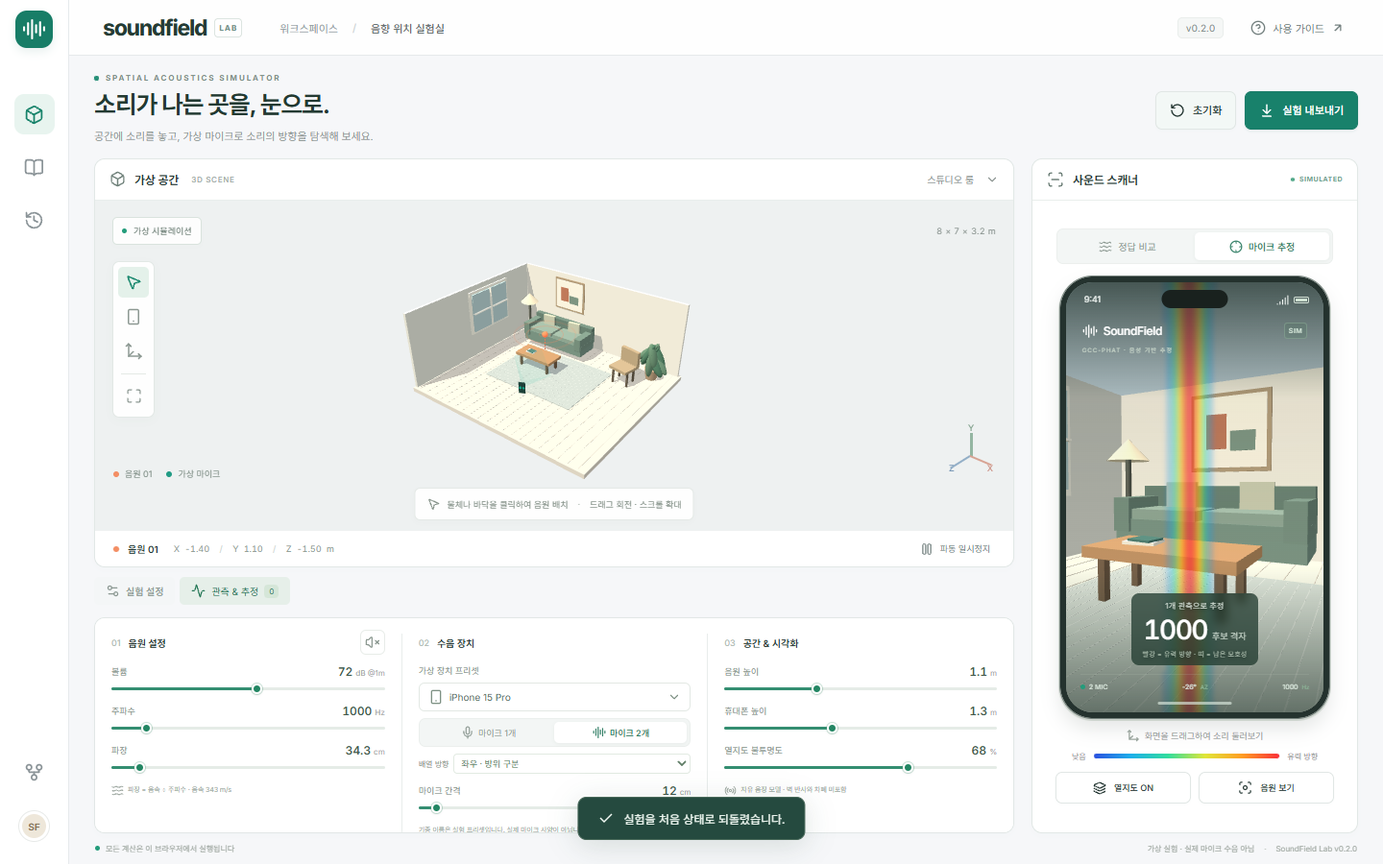
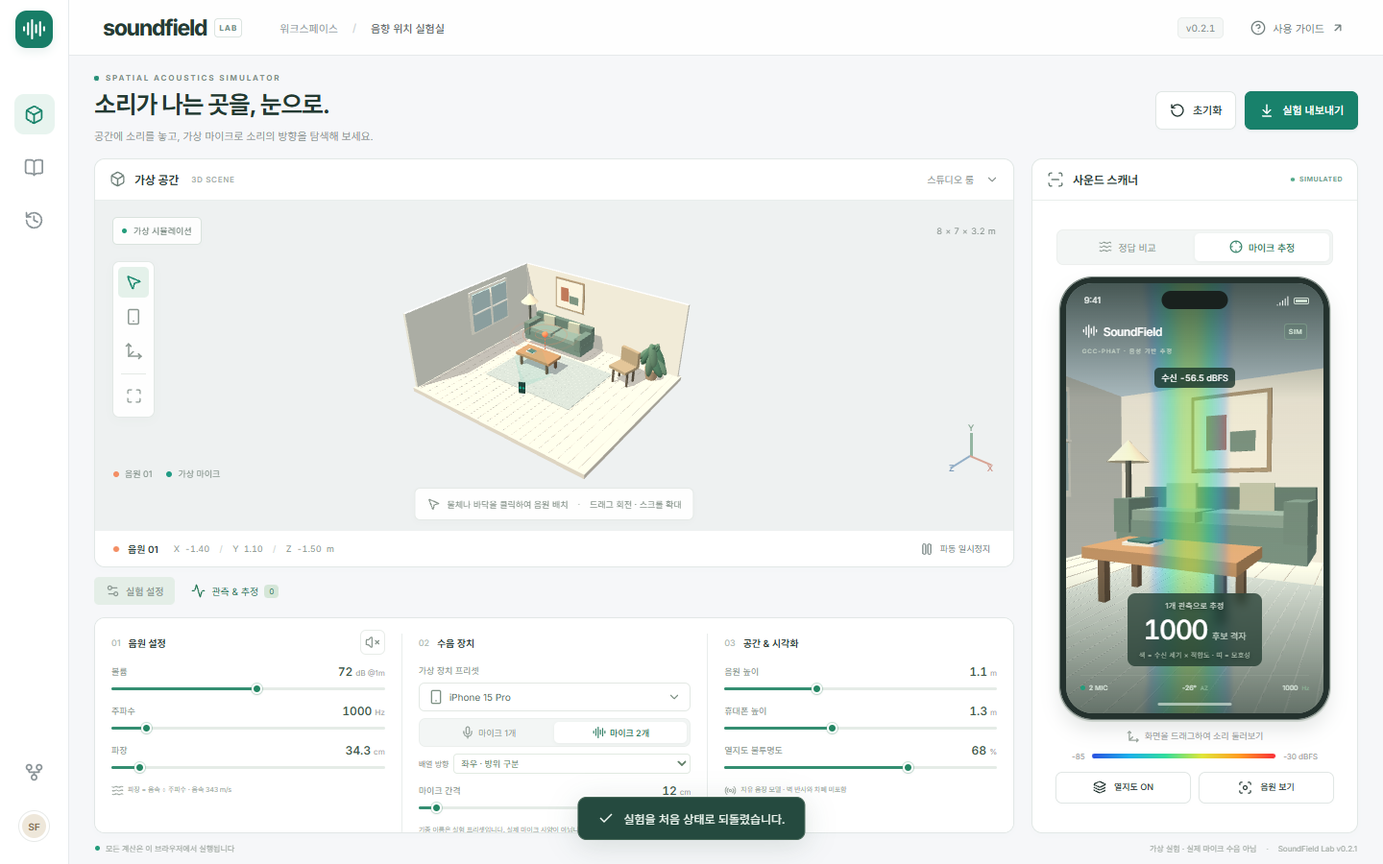
v0.2.1: Make acoustic heatmaps respond to measured volume and publish Pages site

diff --git a/src/App.tsx b/src/App.tsx
@@ -5,6 +5,7 @@ import PhoneView from './components/PhoneView';
 import { clamp, DEVICES, distance, estimate, INITIAL_RECEIVER, INITIAL_SOURCE, isDistinctObservation, pressureAt, SEARCH_VOLUME, wavelength, type Observation, type Receiver, type Source, type Vec3 } from './acoustics';
 import { useAudio } from './useAudio';
 import { captureSimulation, simulateFrame } from './simulation';
+import { HEAT_CEILING_DBFS, HEAT_FLOOR_DBFS, pcmStats } from './heatmap';
 
 const releaseFiles = import.meta.glob('../docs/releases/*.md', { query: '?raw', import: 'default', eager: true });
 const releaseNotes = String(releaseFiles[`../docs/releases/v${__APP_VERSION__}.md`] ?? '이 버전의 릴리즈 노트가 없습니다.');
@@ -44,6 +45,8 @@ export default function App() {
   const toastTimer = useRef<ReturnType<typeof setTimeout> | undefined>(undefined);
   const audio = useAudio(source, playing);
   const capture = useMemo(() => receiver.count === 2 ? captureSimulation(source, receiver) : null, [source, receiver]);
+  const frame = useMemo(() => capture?.frame ?? simulateFrame(source, receiver), [capture, source, receiver]);
+  const levels = useMemo(() => pcmStats(frame.channels), [frame]);
   const currentObservation = capture?.observation;
   const effectiveObservations = useMemo(() => !currentObservation ? [] : isDistinctObservation(currentObservation, observations) ? [...observations, currentObservation] : observations, [currentObservation, observations]);
   const result = useMemo(() => mode === 'estimate' ? estimate(effectiveObservations) : null, [mode, effectiveObservations]);
@@ -66,7 +69,6 @@ export default function App() {
     setObservations(previous => [...previous, currentObservation]); setMode('estimate'); notify(`관측 ${observations.length + 1}개 저장 · 휴대폰을 옮겨 다음 관측을 추가하세요.`);
   };
   const exportExperiment = () => {
-    const frame = capture?.frame ?? simulateFrame(source, receiver);
     const data = { schemaVersion: 2, appVersion: __APP_VERSION__, exportedAt: new Date().toISOString(), source, receiver, device, observations, result, engineInput: { ...frame, channels: frame.channels.map(channel => Array.from(channel)) }, engineOptions: { signal: source.signal, toneFrequencyHz: source.signal === 'tone' ? source.frequency : undefined }, searchVolume: SEARCH_VOLUME, engineOutput: capture?.measurement ?? null, assumptions: 'Synthetic PCM; standalone engine receives audio and microphone geometry only, never the source position. Free field; c=343 m/s; no reflections or diffraction; preset spacings are illustrative.' };
     const url = URL.createObjectURL(new Blob([JSON.stringify(data, null, 2)], { type: 'application/json' }));
     const anchor = document.createElement('a'); anchor.href = url; anchor.download = `soundfield-v${__APP_VERSION__}-${new Date().toISOString().slice(0, 10)}.json`; anchor.click(); setTimeout(() => URL.revokeObjectURL(url), 1000);
@@ -111,16 +113,17 @@ export default function App() {
             <div className="scanner-body">
               <div className="segmented view-modes"><button className={mode === 'pressure' ? 'selected' : ''} onClick={() => setMode('pressure')}><Waves size={14} />정답 비교</button><button className={mode === 'estimate' ? 'selected' : ''} onClick={() => setMode('estimate')}><Crosshair size={14} />마이크 추정</button></div>
               <div className={`phone-frame ${device === 'ipad' ? 'tablet' : ''}`}>
-                <PhoneView source={mode === 'pressure' ? source : null} candidate={mode === 'estimate' && effectiveObservations.length >= 3 && result && result.spread < 0.8 ? result.position : null} receiver={receiver} observations={effectiveObservations} mode={mode} opacity={opacity} heatmap={heatmap} onLook={(yaw, pitch) => setReceiver(previous => ({ ...previous, yaw, pitch }))} />
+                <PhoneView source={mode === 'pressure' ? source : null} candidate={mode === 'estimate' && effectiveObservations.length >= 3 && result && result.spread < 0.8 ? result.position : null} receiver={receiver} observations={effectiveObservations} levelDbfs={levels.levelDbfs} mode={mode} opacity={opacity} heatmap={heatmap} onLook={(yaw, pitch) => setReceiver(previous => ({ ...previous, yaw, pitch }))} />
                 <div className="phone-shade" /><div className="dynamic-island" />
                 <div className="phone-status"><span>9:41</span><div><Signal size={13} /><span className="battery" /></div></div>
                 <div className="phone-app-heading"><AudioLines size={16} /><strong>SoundField</strong><span>SIM</span></div>
                 <div className="phone-mode">{mode === 'pressure' ? 'REFERENCE · 정답 위치' : `${capture?.measurement.method.toUpperCase() ?? 'MONO'} · 음성 기반 추정`}</div>
-                <div className="phone-reading"><span>{mode === 'pressure' ? '수신점의 가상 음압' : receiver.count === 1 ? '방향 정보 없음' : `${effectiveObservations.length}개 관측으로 추정`}</span><strong>{mode === 'pressure' ? receivedDb.toFixed(1) : receiver.count === 1 ? '—' : result?.candidates ?? '—'}<small>{mode === 'pressure' ? 'dB SPL' : receiver.count === 1 ? '' : '후보 격자'}</small></strong><span>{mode === 'pressure' ? '정답 비교용 · 탐지 결과 아님' : '빨강 = 유력 방향 · 띠 = 남은 모호성'}</span></div>
+                <div className="phone-level">수신 <output data-testid="pcm-level">{levels.levelDbfs.toFixed(1)} dBFS</output>{levels.clipped && <span> · 입력 포화</span>}</div>
+                <div className="phone-reading"><span>{mode === 'pressure' ? '수신점의 가상 음압' : receiver.count === 1 ? '방향 정보 없음' : `${effectiveObservations.length}개 관측으로 추정`}</span><strong>{mode === 'pressure' ? receivedDb.toFixed(1) : receiver.count === 1 ? '—' : result?.candidates ?? '—'}<small>{mode === 'pressure' ? 'dB SPL' : receiver.count === 1 ? '' : '후보 격자'}</small></strong><span>{mode === 'pressure' ? '정답 비교용 · 탐지 결과 아님' : '색 = 수신 세기 × 적합도 · 띠 = 모호성'}</span></div>
                 <div className="phone-bottom"><span><span className="status-dot" />{receiver.count} MIC</span><span>{Math.round(receiver.yaw * 180 / Math.PI)}° <i>AZ</i></span><span>{source.frequency.toFixed(0)} <i>Hz</i></span></div><div className="home-indicator" />
               </div>
               <div className="drag-hint"><Move3D size={14} />화면을 드래그하여 소리 둘러보기</div>
-              <div className="heat-legend"><span>낮음</span><div /><span>{mode === 'pressure' ? '음원 중심' : '유력 방향'}</span></div>
+              <div className="heat-legend" title="고정 표시 척도 · PCM 수신 레벨에 방향 적합도를 반영한 시각화"><span>{HEAT_FLOOR_DBFS}</span><div /><span>{HEAT_CEILING_DBFS} dBFS</span></div>
               <div className="scanner-actions"><button className="button secondary" onClick={() => setHeatmap(value => !value)}><Layers3 size={14} />열지도 {heatmap ? 'ON' : 'OFF'}</button><button className="button secondary" onClick={pointAtSource} title="시뮬레이션 정답 위치를 바라봅니다"><Focus size={15} />음원 보기</button></div>
             </div>
           </section>
@@ -153,7 +156,7 @@ export default function App() {
           </section>
 
           <section className="analysis-panel card"><div className="panel-heading"><div><span className="panel-icon"><Activity size={17} /></span><h2>관측 & 위치 추정</h2></div><span className="small-tag">EXPERIMENT</span></div>
-            <div className="analysis-content"><div className="metric-grid"><div><span>수신 PCM 레벨</span><strong>{capture ? capture.measurement.levelDbfs.toFixed(1) : '—'}<small>dBFS</small></strong><em>48 kHz · 4096 samples</em></div><div><span>음성에서 추출한 시간차</span><strong>{currentObservation ? (currentObservation.delay * 1e6).toFixed(1) : '—'}<small>μs</small></strong><em>{capture?.measurement.method.toUpperCase() ?? '마이크 2개 필요'}</em></div></div>
+            <div className="analysis-content"><div className="metric-grid"><div><span>수신 PCM 레벨</span><strong>{levels.levelDbfs.toFixed(1)}<small>dBFS</small></strong><em>{levels.clipped ? '입력 포화 · 볼륨을 낮추세요' : '48 kHz · 4096 samples'}</em></div><div><span>음성에서 추출한 시간차</span><strong>{currentObservation ? (currentObservation.delay * 1e6).toFixed(1) : '—'}<small>μs</small></strong><em>{capture?.measurement.method.toUpperCase() ?? '마이크 2개 필요'}</em></div></div>
               <div className="analysis-note"><span className="note-dot" /><p>{receiver.count === 1 ? '마이크 1개로는 방향을 알 수 없습니다. 2개로 바꾸어 도착 시간차를 비교해 보세요.' : observations.length < 3 ? '마이크 2개의 한 번 관측으로는 위치가 하나로 정해지지 않습니다. 위치·높이를 바꿔 관측을 모아 보세요.' : `20 cm 격자 탐색 · 후보 범위 ${result ? result.spread.toFixed(2) : '—'} m. 여러 후보가 남으면 다른 위치와 높이에서 관측하세요.`}</p></div>
               <div className="signal-control"><label htmlFor="signal">측정 신호 모델</label><select id="signal" value={source.signal} onChange={event => changeSource({ signal: event.target.value as Source['signal'] })}><option value="broadband">광대역 · 비주기 시간차</option><option value="tone">단일 주파수 · 위상 모호성</option></select></div>
               <div className="observation-actions"><button className="button primary" onClick={saveObservation} disabled={receiver.count === 1}><Plus size={15} />관측 저장 <span>{observations.length}/12</span></button><button className="icon-button" aria-label="관측 지우기" title="관측 지우기" onClick={() => { setObservations([]); notify('저장한 관측을 지웠습니다.'); }}><RotateCcw size={16} /></button></div>
@@ -169,7 +172,8 @@ export default function App() {
     {modal === 'guide' && <Modal title="SoundField 실험 가이드" onClose={() => setModal(null)}>
       <p>소리가 발생하는 위치와 가상 마이크의 관측을 비교하는 3D 실험실입니다.</p>
       <ol><li><strong>음원 배치</strong> — 왼쪽 물체나 바닥을 클릭하고, 음원 높이를 조절합니다.</li><li><strong>신호 설정</strong> — 볼륨과 주파수를 바꿉니다. 파장은 음속 343 m/s에 맞춰 연동됩니다. 미리듣기는 작은 음량의 정현파이며 dB SPL 보정 출력이 아닙니다.</li><li><strong>둘러보기</strong> — 오른쪽 화면을 드래그하거나 방향키로 회전합니다. ‘음원 보기’는 설정한 정답 방향을 보여주는 보조 기능입니다.</li><li><strong>위치 추정</strong> — 마이크 2개를 선택하고 관측을 저장합니다. 왼쪽 휴대폰 도구로 장치를 옮기고 높이·방향도 바꾸어 3개 이상의 관측을 수집합니다.</li><li><strong>비교·저장</strong> — 간격과 신호 모델을 바꾸어 후보가 얼마나 넓게 남는지 비교하고, 결과를 JSON으로 내보냅니다.</li></ol>
-      <h3>열지도 읽기</h3><p><strong>음압 분포</strong>는 정답 위치를 표시하는 비교용 모드입니다. 음원을 중심으로 색을 겹쳐 보여주며 실제 탐지 결과가 아닙니다. 숫자는 가상 수신 음압입니다. <strong>마이크 추정</strong>은 마이크 PCM에서 얻은 시간차만으로 시야의 방향 후보를 계산합니다. 3D 물체나 음원 좌표를 사용하지 않습니다. 빨간 띠가 넓게 남으면 방향을 아직 구분할 수 없는 상태입니다.</p>
+      <h3>열지도 읽기</h3><p><strong>정답 비교</strong>는 정답 위치에 비교용 표식을 겹치며 실제 탐지 결과가 아닙니다. <strong>마이크 추정</strong>은 PCM에서 얻은 시간차로 시야의 방향 후보를 계산합니다. 3D 물체나 음원 좌표를 사용하지 않습니다. 띠가 넓게 남으면 방향을 아직 구분할 수 없는 상태입니다.</p>
+      <p>두 모드 모두 PCM 수신 레벨을 고정 색상 척도에 반영합니다. 볼륨이 커지면 색이 강해지고 표시 임계값을 넘는 영역이 넓어집니다. 표시 면적은 음원의 실제 크기나 위치 정확도가 아닙니다. dBFS는 디지털 신호 레벨이며 실제 dB SPL로 교정되지 않았습니다. 입력 포화가 표시되면 볼륨을 낮추세요.</p>
       <h3>독립 음향 엔진</h3><p>합성 마이크 PCM → GCC-PHAT 또는 순음 위상 측정 → 후보 위치 탐색으로 처리합니다. 엔진은 음성 샘플, 샘플링 주파수, 동기화 여부, 마이크 배치만 받습니다. 탐색 범위는 호출하는 앱이 지정합니다. 내보낸 JSON의 engineInput은 3D 화면 없이 다시 분석할 수 있으며 정답 좌표는 별도의 비교 데이터입니다.</p>
       <h3>배열 방향</h3><p>좌우 배열은 좌우 방위에, 세로 배열은 높낮이에 민감합니다. 두 마이크 중 한 배열이 모든 3D 방향에 더 정확한 것은 아닙니다. 여러 위치·높이에서 관측하거나 다채널 배열이 필요합니다.</p>
       <h3>이번 실험의 가정</h3><p>벽과 물체는 배경입니다. 반사·흡음·회절·차폐와 실제 장치 잡음은 포함하지 않습니다. PCM은 합성한 동기화 채널이며 실제 수음은 아닙니다. 광대역 모델은 주파수 설정의 2배를 필터 척도로 쓰는 잡음, 순음 모델은 설정 주파수의 정현파입니다. 기종별 간격은 예시값입니다.</p>

diff --git a/src/components/PhoneView.tsx b/src/components/PhoneView.tsx
@@ -3,15 +3,16 @@ import * as THREE from 'three';
 import { clamp, distance, heatColor, type Observation, type Receiver, type Source, type Vec3 } from '../acoustics';
 import { rayLikelihood } from '../../packages/localization/src/index';
 import { createRoom, disposeScene, lightScene } from '../room';
+import { heatIntensity } from '../heatmap';
 
-type Props = { source: Source | null; candidate: Vec3 | null; receiver: Receiver; observations: Observation[]; mode: 'pressure' | 'estimate'; opacity: number; heatmap: boolean; onLook: (yaw: number, pitch: number) => void };
+type Props = { source: Source | null; candidate: Vec3 | null; receiver: Receiver; observations: Observation[]; levelDbfs: number; mode: 'pressure' | 'estimate'; opacity: number; heatmap: boolean; onLook: (yaw: number, pitch: number) => void };
 
 export default function PhoneView(props: Props) {
   const host = useRef<HTMLDivElement>(null); const heat = useRef<HTMLCanvasElement>(null);
   const marker = useRef<HTMLDivElement>(null);
   const current = useRef(props); current.current = props;
   const update = useRef<() => void>(() => {}); const [error, setError] = useState(false);
-  useEffect(() => { update.current(); }, [props.source, props.candidate, props.receiver, props.observations, props.mode, props.opacity, props.heatmap]);
+  useEffect(() => { update.current(); }, [props.source, props.candidate, props.receiver, props.observations, props.levelDbfs, props.mode, props.opacity, props.heatmap]);
   useEffect(() => {
     const container = host.current!;
     let renderer: THREE.WebGLRenderer;
@@ -27,7 +28,7 @@ export default function PhoneView(props: Props) {
     const ranges = [0.3, 0.5, 0.8, 1.2, 1.8, 2.5, 3.5, 5, 7, 10];
     let pending = 0;
     const draw = () => {
-      const { source, candidate, receiver, observations, mode, opacity, heatmap } = current.current;
+      const { source, candidate, receiver, observations, levelDbfs, mode, opacity, heatmap } = current.current;
       camera.position.set(...receiver.position);
       camera.lookAt(camera.position.clone().add(new THREE.Vector3(Math.sin(receiver.yaw) * Math.cos(receiver.pitch), Math.sin(receiver.pitch), -Math.cos(receiver.yaw) * Math.cos(receiver.pitch))));
       camera.updateMatrixWorld(); renderer.render(scene, camera);
@@ -52,11 +53,12 @@ export default function PhoneView(props: Props) {
         } else if (mode === 'estimate') {
           value = rayLikelihood(receiver.position, raycaster.ray.direction.toArray() as Vec3, observations, samplingRanges);
         }
-        if (value < 0.1) continue;
+        const intensity = heatIntensity(value, levelDbfs);
+        if (intensity <= 0) continue;
         const offset = (y * width + x) * 4;
-        const color = heatColor(value);
+        const color = heatColor(intensity);
         data.data[offset] = color[0]; data.data[offset + 1] = color[1]; data.data[offset + 2] = color[2];
-        data.data[offset + 3] = Math.round(opacity * 255 * Math.sqrt(value));
+        data.data[offset + 3] = Math.round(opacity * 255 * Math.sqrt(intensity));
       }
       context.putImageData(data, 0, 0);
     };

diff --git a/tests/e2e/simulator.spec.ts b/tests/e2e/simulator.spec.ts
@@ -3,6 +3,45 @@ import { readFileSync } from 'node:fs';
 
 const version = JSON.parse(readFileSync('package.json', 'utf8')).version;
 
+for (const mobile of [false, true]) test(`volume changes heatmap area and intensity in both modes (${mobile ? 'mobile' : 'desktop'})`, async ({ page }) => {
+  if (mobile) await page.setViewportSize({ width: 390, height: 844 });
+  await page.goto('/');
+  const heatStats = () => page.getByTestId('heatmap-canvas').evaluate(element => {
+    const canvas = element as HTMLCanvasElement;
+    const pixels = canvas.getContext('2d')!.getImageData(0, 0, canvas.width, canvas.height).data;
+    let area = 0; let alpha = 0; let warm = 0;
+    for (let i = 0; i < pixels.length; i += 4) if (pixels[i + 3] > 0) {
+      area++; alpha += pixels[i + 3];
+      if (pixels[i] > 220 && pixels[i + 2] < 100) warm++;
+    }
+    return { area, alpha, warm };
+  });
+  for (const mode of ['마이크 추정', '정답 비교']) {
+    await page.getByRole('button', { name: mode, exact: true }).click();
+    if (mobile) await page.getByRole('button', { name: '실험 설정', exact: true }).click();
+    await expect(page.getByTestId('pcm-level')).toBeVisible();
+    await page.getByLabel('볼륨', { exact: true }).fill('50');
+    await expect.poll(async () => (await heatStats()).area).toBeGreaterThan(0);
+    const quietLevel = Number.parseFloat((await page.getByTestId('pcm-level').textContent())!);
+    await expect.poll(async () => (await heatStats()).warm).toBe(0);
+    const quiet = await heatStats();
+    await page.getByLabel('볼륨', { exact: true }).fill('90');
+    await expect.poll(async () => (await heatStats()).area).toBeGreaterThan(quiet.area * 1.1);
+    const loud = await heatStats();
+    expect(loud.alpha).toBeGreaterThan(quiet.alpha * 1.5);
+    expect(loud.warm).toBeGreaterThan(quiet.warm);
+    const loudLevel = Number.parseFloat((await page.getByTestId('pcm-level').textContent())!);
+    expect(loudLevel - quietLevel).toBeCloseTo(40, 1);
+    if (!mobile && mode === '정답 비교') await page.screenshot({ path: 'test-results/volume-90.png' });
+    await page.getByLabel('볼륨', { exact: true }).fill('50');
+    await expect.poll(async () => (await heatStats()).area).toBe(quiet.area);
+    if (!mobile && mode === '정답 비교') await page.screenshot({ path: 'test-results/volume-50.png' });
+    if (mobile) await page.getByRole('button', { name: '설정 패널 닫기', exact: true }).click();
+  }
+  await expect(page.getByTestId('phone-viewport')).toBeVisible();
+  expect(await page.evaluate(() => document.documentElement.scrollHeight <= window.innerHeight && document.documentElement.scrollWidth <= window.innerWidth)).toBe(true);
+});
+
 test('places a source, links acoustics, rotates the phone, changes microphone modes and exports', async ({ page }) => {
   const errors: string[] = []; page.on('pageerror', error => errors.push(error.message));
   await page.goto('/'); await expect(page.getByRole('heading', { name: '소리가 나는 곳을, 눈으로.' })).toBeVisible();

diff --git a/tests/heatmap.test.ts b/tests/heatmap.test.ts
@@ -1,0 +1,33 @@
+import { describe, expect, it } from 'vitest';
+import { captureSimulation, simulateFrame } from '../src/simulation';
+import { INITIAL_RECEIVER, INITIAL_SOURCE } from '../src/acoustics';
+import { heatIntensity, pcmStats } from '../src/heatmap';
+
+describe('volume and display level are independent from localization', () => {
+  it.each(['broadband', 'tone'] as const)('preserves delay while tracking every 10 dB step for %s', signal => {
+    const captures = [40, 50, 60, 70, 80, 90, 100].map(db => captureSimulation({ ...INITIAL_SOURCE, signal, db }, INITIAL_RECEIVER));
+    for (let i = 1; i < captures.length; i++) {
+      expect(captures[i].measurement.levelDbfs - captures[i - 1].measurement.levelDbfs).toBeCloseTo(10, 4);
+      expect(captures[i].observation.delay).toBeCloseTo(captures[0].observation.delay, 8);
+      expect(pcmStats(captures[i].frame.channels).levelDbfs).toBeCloseTo(captures[i].measurement.levelDbfs, 8);
+      expect(pcmStats(captures[i].frame.channels).clipped).toBe(false);
+    }
+  });
+  it('bounds overloaded PCM, reports clipping and supports mono levels without inventing a direction', () => {
+    const frame = simulateFrame({ ...INITIAL_SOURCE, db: 100, signal: 'tone', position: INITIAL_RECEIVER.position }, { ...INITIAL_RECEIVER, count: 1 });
+    expect(frame.channels).toHaveLength(1);
+    expect(frame.channels[0].every(sample => Math.abs(sample) <= 1)).toBe(true);
+    expect(pcmStats(frame.channels).clipped).toBe(true);
+    expect(Number.isFinite(pcmStats(frame.channels).levelDbfs)).toBe(true);
+    expect(pcmStats([new Float32Array(100)]).levelDbfs).toBe(-Infinity);
+  });
+  it('uses a fixed display threshold and never creates heat from a zero directional response', () => {
+    expect(heatIntensity(1, -100)).toBe(0);
+    expect(heatIntensity(1, -35)).toBeGreaterThan(heatIntensity(1, -65));
+    expect(heatIntensity(0.01, -65)).toBe(0);
+    expect(heatIntensity(0.01, -35)).toBeGreaterThan(0);
+    expect(heatIntensity(0, 0)).toBe(0);
+    expect(heatIntensity(1, -Infinity)).toBe(0);
+    expect(heatIntensity(1, NaN)).toBe(0);
+  });
+});

diff --git a/src/layout.css b/src/layout.css
@@ -30,6 +30,7 @@ h1 { font-size: 25px; }
 .phone-bottom { bottom: 22px; padding-top: 8px; }
 .phone-app-heading { top: 42px; }
 .phone-mode { top: 66px; }
+.phone-level { position: absolute; top: 88px; left: 10px; right: 10px; width: fit-content; margin: auto; padding: 4px 7px; border-radius: 5px; background: #193328c9; color: white; font-size: 9px; font-variant-numeric: tabular-nums; pointer-events: none; }
 .drag-hint { margin-top: 11px; flex-shrink: 0; }
 .heat-legend { margin-top: 9px; margin-bottom: 11px; flex-shrink: 0; }
 .scanner-actions { flex-shrink: 0; }
@@ -148,6 +149,7 @@ footer { padding: 10px 1px 11px; flex-shrink: 0; }
   [data-sheet='true'] .scanner-panel > .panel-heading, [data-sheet='true'] .scanner-body > :not(.phone-frame) { display: none; }
   [data-sheet='true'] .scanner-body { padding: 7px; }
   [data-sheet='true'] .phone-frame { height: 100%; min-height: 0; border-width: 3px; border-radius: 14px; }
+  [data-sheet='true'] .phone-level { top: 7px; font-size: 9px; }
   [data-sheet='true'] .phone-app-heading, [data-sheet='true'] .phone-status, [data-sheet='true'] .phone-mode, [data-sheet='true'] .dynamic-island, [data-sheet='true'] .phone-reading, [data-sheet='true'] .phone-bottom, [data-sheet='true'] .home-indicator { display: none; }
   [data-sheet='true'] .scene-status, [data-sheet='true'] .scene-panel > .panel-heading, [data-sheet='true'] .scene-bottom, [data-sheet='true'] .scene-legend { display: none; }
   [data-sheet='true'] .scene-tools { flex-direction: row; top: 9px; left: auto; right: 8px; }

diff --git a/src/simulation.ts b/src/simulation.ts
@@ -17,10 +17,13 @@ export function simulateFrame(source: Source, receiver: Receiver): AudioFrame {
   let filtered = 0;
   for (let i = 0; i < raw.length; i++) { filtered += alpha * ((rng() * 2 - 1) - filtered); raw[i] = filtered; }
   const channels = pair.map((point, channel) => {
-    const samples = new Float32Array(size); const amplitude = Math.min(0.8, 0.15 * 10 ** ((pressureAt(source, point) - 65) / 20));
+    // Fixed virtual gain, with headroom for the volume slider. Clip the waveform
+    // only at full scale; capping its gain made different loud inputs identical.
+    const samples = new Float32Array(size); const amplitude = 0.015 * 10 ** ((pressureAt(source, point) - 65) / 20);
     for (let i = 0; i < size; i++) {
       const t = i + maxOffset - offsets[channel]; const floor = Math.floor(t); const fraction = t - floor;
-      samples[i] = amplitude * (source.signal === 'tone' ? Math.sin(2 * Math.PI * source.frequency * t / sampleRate) : raw[floor] * (1 - fraction) + raw[floor + 1] * fraction);
+      const sample = amplitude * (source.signal === 'tone' ? Math.sin(2 * Math.PI * source.frequency * t / sampleRate) : raw[floor] * (1 - fraction) + raw[floor + 1] * fraction);
+      samples[i] = Math.max(-1, Math.min(1, sample));
     }
     return samples;
   });

diff --git a/src/heatmap.ts b/src/heatmap.ts
@@ -1,0 +1,19 @@
+/** Display weighting only. No scene/source input and no changes to localization. */
+export const HEAT_FLOOR_DBFS = -85;
+export const HEAT_CEILING_DBFS = -30;
+
+export function pcmStats(channels: readonly Float32Array[]) {
+  let energy = 0; let count = 0; let clipped = 0;
+  for (const channel of channels) for (const sample of channel) {
+    energy += sample * sample; count++;
+    if (Math.abs(sample) >= 1) clipped++;
+  }
+  return { levelDbfs: energy > 0 && count > 0 ? 10 * Math.log10(energy / count) : -Infinity, clipped: clipped > 0 };
+}
+
+export function heatIntensity(response: number, levelDbfs: number) {
+  if (!(response > 0) || !Number.isFinite(levelDbfs)) return 0;
+  // This is a visualization score, not a reconstructed SPL field or confidence.
+  const weightedLevel = levelDbfs + 10 * Math.log10(Math.min(1, response));
+  return Math.max(0, Math.min(1, (weightedLevel - HEAT_FLOOR_DBFS) / (HEAT_CEILING_DBFS - HEAT_FLOOR_DBFS)));
+}

diff --git a/docs_canonical/ACOUSTICS.md b/docs_canonical/ACOUSTICS.md
@@ -20,7 +20,7 @@
 - 광대역 모델: 고정 seed 잡음을 설정 주파수의 2배를 척도로 하는 저역 필터에 통과시켜 합성 PCM을 만든다. 엔진은 평균 제거/Hann window/zero padding/GCC-PHAT/물리 지연 범위 탐색/peak 보간을 수행한다. 실제 마이크 수음은 아니지만 위치 추정의 입력은 PCM이다.
 - 단일 주파수 모델: r←r−round(r·f)/f. 한 주기 차이의 지연을 구별하지 못하는 순음 위상 모호성을 표시한다.
 - 광대역 σ는 실제 상관 peak의 반치폭과 돌출도에서 만든 휴리스틱이며 최소 0.5 sample을 사용한다. 정답 좌표나 알려진 음원 SPL을 사용하지 않는다. 순음 σ=max(0.5/fs,0.02/f) 역시 휴리스틱이다. 공분산 또는 정확도 보정식으로 해석하지 않는다.
-- 비용 C=Σ(rᵢ/σᵢ)². 표면 적합도 exp(−C/2)를 색으로 표시한다. 확률적으로 보정된 신뢰도가 아니다.
+- 비용 C=Σ(rᵢ/σᵢ)². 방향 적합도 exp(−C/2)를 계산한다. 확률적으로 보정된 신뢰도가 아니다. v0.2.1부터 표시할 때 PCM 레벨도 반영한다.
 - 20 cm 격자 최고 후보를 찾고, C≤Cmin+3인 후보 개수와 최고점부터 가장 먼 후보의 거리를 표시한다. 절대 신뢰구간이나 오차 보장이 아니다.
 
 음원·볼륨·주파수·신호·배열 간격·마이크 수 변경 시 저장 관측을 비운다. 수신기 위치/자세 변경은 저장 관측을 유지한다. 거의 같은 마이크 위치(두 이동 거리 합 ≤8 cm)는 중복으로 저장하지 않는다. 최대 12개.
@@ -36,6 +36,14 @@
 기본 ‘마이크 추정’은 카메라의 광선 방향별로 0.3~10 m의 고정 탐색 거리들에서 관측 적합도를 평가하고 최대값을 투명한 색으로 겹친다. 여러 관측으로 좁혀진 후보가 있으면 그 추정 거리도 평가한다. 배경 mesh와 raycast 교차를 사용하지 않아 공중 후보도 표시할 수 있다. 시야 변환은 표시용 카메라 정보일 뿐 음향 엔진 입력이 아니다. 두 마이크만으로 남는 띠를 작은 점으로 숨기지 않는다.
 
 ‘정답 비교’는 설정된 위치에 시각적 색 표식과 별도 라벨을 그린다. 표식의 그라데이션은 비교용이며 측정된 공간 음압 분포가 아니다. 수신 SPL 숫자도 이 모드에서만 알려진 설정으로 계산한다. 추정 화면의 dBFS는 실제 엔진 입력 PCM 기준 레벨이고 SPL로 교정되지 않았다.
+
+### 수신 레벨과 표시 범위 (v0.2.1)
+
+PCM RMS 레벨 L=10 log10(mean(sample²))를 프레임마다 측정한다. 방향 적합도 또는 정답 비교용 Gaussian을 R이라 할 때, 표시 점수는 L+10 log10(R)다. −85~−30 dBFS의 **고정 척도**를 사용하고 하한 이하는 숨긴다. 자동 정규화를 하지 않으므로 볼륨을 올리면 더 강한 색과 더 넓은 표시 범위가 나타난다. 수신 PCM 레벨은 휴대폰 화면 안에서 확인한다. 한 마이크도 음량은 측정하지만 추정 방향 열지도는 그리지 않는다.
+
+이 점수는 시각화 가중치다. 후보별 물리 음압 복원, 음원의 실제 크기, 신뢰구간, 빔포머 출력으로 해석하지 않는다. 방향 추정의 지연·σ·탐색 결과는 표시 점수에 영향을 받지 않는다. 잡음 없는 비포화 PCM을 일정 배율로 증폭해도 GCC-PHAT 방향은 그대로인 것이 정상이다.
+
+가상 센서 이득은 65 dB SPL 입력에서 파형 배율 0.015로 고정했다. v0.2.0의 파형 배율 상한 때문에 큰 볼륨들이 같은 신호가 되던 현상을 제거했다. 최종 PCM 샘플만 ±1에서 clip하고 하나라도 포화되면 표시한다. 기본 배치에서는 40~100 dB의 각 10 dB 증가가 PCM에서도 10 dB 증가하는지 순음/광대역 모두 검증한다. 실제 기기 감도·AGC를 모사하거나 교정한 값은 아니다.
 
 Fluke와 같은 영상 위 겹침 표현을 참고했지만 동일 장비·알고리즘·정확도를 재현하지 않는다. [Fluke ii900 공식 사양](https://www.fluke.com/en-us/product/industrial-imaging/sonic-industrial-imager-ii900)은 64개 MEMS 마이크와 시각 영상 위 SoundMap을 설명한다. 두 마이크 시뮬레이션의 관측 가능성은 다르다.
 

diff --git a/docs_canonical/LIVE_CAMERA_PLAN.md b/docs_canonical/LIVE_CAMERA_PLAN.md
@@ -1,0 +1,33 @@
+# 실제 카메라·수음 웹앱 확장 계획
+
+상태: 설계 제안. v0.2.1에는 실제 카메라·마이크 캡처가 없다.
+
+## 카메라를 웹에서 표시
+
+Cloudflare Pages의 HTTPS 주소를 그대로 사용할 수 있다. 사용자가 ‘카메라 시작’을 누르면 `navigator.mediaDevices.getUserMedia({ video: { facingMode: { ideal: 'environment' } }, audio: false })`로 후면 카메라를 요청한다. `video.srcObject`에 스트림을 연결하고 `playsInline`, `muted`를 설정한다. 권한 거절, 장치 없음, 카메라 사용 중, 전후면 전환, 중지 및 페이지 종료 시 track.stop()을 처리한다. 서버 영상 업로드는 필요하지 않다.
+
+현 public/_headers는 카메라와 마이크를 차단한다. 기능 추가 시 해당 origin에 대해 `camera=(self), microphone=(self)`를 허용하고 영상 렌더링에 맞는 CSP를 함께 검증해야 한다. 브라우저의 사용자 권한 승인은 여전히 필요하다. 모바일 레이아웃의 스캔 영역을 video와 canvas 오버레이로 대체하면 설정 패널과 미리보기 구조를 유지할 수 있다.
+
+## 음량과 위치를 분리해 검증
+
+1. 기기 진단: 마이크 권한을 별도로 요청하고 getSettings/getCapabilities, sampleRate, channelCount와 실제 AudioWorklet의 PCM 채널 수를 표시한다. echoCancellation, noiseSuppression, autoGainControl 비활성화를 요청하되 실제 적용 결과를 기록한다.
+2. 음량 모드: 한 채널이어도 PCM 레벨/스펙트럼은 표시할 수 있다. 음량만으로 화면의 특정 위치에 열점을 만들지 않는다.
+3. 방향 모드: 독립된 동시 마이크 채널과 실제 센서 위치를 확인한 경우만 packages/localization에 전달한다. channelCount=2 보고만으로 물리적으로 독립된 두 마이크라고 판단하지 않는다. 복제·혼합 채널과 시간 지연을 별도 실험으로 검증한다.
+4. 영상 정렬: 센서 좌표계와 카메라 축, 화각, 회전·크롭·화면비를 교정한 뒤 추정 방향을 영상 픽셀로 투영한다. 휴대폰을 움직여 관측을 누적하려면 별도 자세/위치 추적이 필요하다. 클릭한 가상 음원 좌표를 실제 추정에 사용하지 않는다.
+5. 지원 불가 기기: 방향 탐지를 비활성화하고 음량 모드를 유지한다. 외장 동시 다채널 인터페이스나 물리 채널 접근이 가능한 네이티브 API를 검토한다. 서로 다른 휴대폰 두 대의 네트워크 도착 시각은 음향 TDOA 동기화가 아니다.
+
+초기 목표는 **실제 영상 + 실제 음량 + 수음 기능 진단**이다. Fluke처럼 정확한 방향 열지도를 제공하는 단계는 하드웨어 채널 접근성, 센서/영상 교정과 실측 오차 검증을 통과해야 한다. 단일 배열의 두 센서에는 3D 모호성이 남는다.
+
+## 실기기 검증 기준
+
+- 대상 iPhone/iPad 모델, iOS/Safari 버전 또는 Android 모델/Chrome 버전을 기록한다.
+- 첫 권한 요청, 거절 후 재시도, 탭 전환/백그라운드, 화면 회전, 카메라 전환/중지와 모바일 스크롤을 검증한다.
+- 채널별 독립 신호와 동기화, 자동 처리, known source를 이용한 방향 오차를 확인한다. 방향을 검증하기 전에는 실제 위치 탐지 성공으로 표시하지 않는다.
+
+## 공식 자료
+
+- [MDN getUserMedia](https://developer.mozilla.org/en-US/docs/Web/API/MediaDevices/getUserMedia): HTTPS, 권한, 전후면 선택.
+- [MDN 제약·기능·설정](https://developer.mozilla.org/en-US/docs/Web/API/Media_Capture_and_Streams_API/Constraints): 요청과 실제 설정 구분.
+- [MDN channelCount](https://developer.mozilla.org/en-US/docs/Web/API/MediaTrackSettings/channelCount): 실제 적용된 채널 수.
+
+확인: 2026-09-22.

diff --git a/DEVLOG.md b/DEVLOG.md
@@ -50,6 +50,24 @@
 
 <!-- improvements -->
 
+### v0.2.1 — 2026-09-22
+
+| 변경 | 내용 |
+|---|---|
+| 릴리즈 | 데시벨에 반응하는 열지도와 계정명 없는 공개 주소 |
+
+EXP-003 · REQ-VIEW-003 / REQ-DEPLOY-002 · SC-15 / SC-14.
+
+- BUG-007: PhoneView가 정규화된 방향 적합도/고정 Gaussian만 그려 수신 음량을 반영하지 않았음. PCM RMS를 별도로 전달하고 고정 척도에서 색·alpha·표시 임계값에 반영. 위치 추정 코드는 변경하지 않음.
+- BUG-008: 시뮬레이터의 amplitude 상한이 큰 볼륨 입력을 같은 PCM으로 만듦. 고정 이득에 여유를 두고 실제 샘플만 ±1에서 포화, 포화 표시 추가.
+- 변경: src/heatmap.ts, simulation.ts, PhoneView/App, 모바일에서도 보이는 수신 레벨과 tests/heatmap.test.ts/E2E.
+- 검증: Gate 및 단위 테스트 25개 PASS. 두 신호의 40~100 dB 단계별 PCM 10 dB 증가와 지연 불변 PASS. 데스크톱/모바일 E2E 4개 PASS. 정답 비교 50/90 dB 및 모바일 설정 화면을 직접 검토하고 docs/assets에 보관. 원격 배포 검증은 아래에 기록.
+- 첫 모바일 회귀 테스트가 열린 설정 패널에서 숨겨진 모드 버튼을 클릭해 시간 초과. 실제 사용자 순서에 맞게 패널 닫기 → 모드 선택 → 설정 열기로 수정.
+- Pages 추가 OAuth 인증 성공. Wrangler 4.136의 기본 Pages 생성 명령이 Workers로 자동 위임되어 이전 주소에 v0.2.0을 배포하는 동작을 확인. 사용자의 계정명 없는 URL 요구에 따라 `pages project create --force`로 Pages 프로젝트를 명시적으로 생성. 기존 프로젝트 배포에는 force가 필요하지 않음.
+- 실제 카메라 웹앱 문의에 대해 HTTPS/권한/후면 video, PCM 채널 진단, 독립 수음 검증, 카메라 축 교정을 단계별로 docs_canonical/LIVE_CAMERA_PLAN.md에 기록. 실제 촬영·수음은 이번 수정에 포함하지 않음.
+- BUG-009: Pages 배포가 `--config wrangler.pages.jsonc`를 거부. Pages는 사용자 정의 설정 경로를 지원하지 않아 표준 wrangler.jsonc에 pages_build_output_dir를 설정하고 npm/CI 명령의 --config 제거.
+- 배포: https://soundfield-lab.pages.dev, deployment 7efc0de4. HTTP 200/version.json 0.2.1/보안 헤더 확인 및 원격 Chromium E2E 4/4 PASS. 페이지에 계정명이 없는 URL 요구 완료.
+
 ### v0.2.0 — 2026-09-22
 
 | 변경 | 내용 |

diff --git a/docs_canonical/TESTING.md b/docs_canonical/TESTING.md
@@ -15,12 +15,16 @@ Gate는 TypeScript strict, Vite 프로덕션 빌드, 물리 테스트, 버전·l
 
 λ=c/f, 거리 두 배 음압 감소, 회전 후 마이크 간격 유지, 시간차 부호/상한/대칭, 무관측 추정 없음, 단일 관측의 넓은 후보, 독립 4관측의 공간 제약, 중복 관측 거부, 순음의 주기 모호성을 검증한다. 추정기는 정답 좌표를 입력으로 받지 않는다.
 
-## 브라우저 테스트 (2개 시나리오)
+## 브라우저 테스트 (4개 시나리오)
 
 v0.2.0에서 PCM 엔진 테스트 12개를 추가해 총 21개다. ±지연, 무음/비동기 입력 거부, 고정 PCM에 대한 정답 좌표 독립성, demo 외부 좌표계, 수평/수직 센서 배열, production code의 UI import 부재를 검증한다. `npm run build:engine`은 DOM lib 없이 별도로 빌드한다.
 
 1. 데스크톱: 화면, 클릭 배치, 주파수↔파장, 폰 드래그, 단일 마이크 제약, 저장 관측 초기화, 기종 간격, 다른 높이/위치의 3관측 누적과 결과 표시, JSON 내용 검증, 릴리즈 노트, 전체 초기화, console pageerror 없음.
 2. 390×844 모바일: 페이지 가로/세로 넘침 없음, heatmap ON/OFF, native dialog, 하단 패널에서 설정하면서 스캔 화면 유지, 설정 세부 탭, 공간/스캔 전환 후 유효한 열지도와 console pageerror 없음.
+3. 데스크톱 볼륨: 마이크 추정/정답 비교 각각 50→90 dB에서 열지도 alpha·표시 픽셀·따뜻한 색 픽셀 증가, PCM 40 dB 증가, 50 dB 복귀 시 동일 면적.
+4. 모바일 볼륨: 동일 회귀 검증, 설정 중 수신 레벨과 미리보기 유지 및 양축 페이지 넘침 없음.
+
+v0.2.1은 heatmap.test.ts 4개를 더해 총 25개 단위 테스트다. 두 신호의 40~100 dB 단계별 레벨 증가와 지연 불변, 근접 고음량 PCM 포화/범위 제한, 단일 채널 레벨, 무음과 고정 표시 임계값을 검증한다. 볼륨 비교 화면은 test-results/volume-50.png와 volume-90.png다.
 
 `test-results/desktop.png`, `mobile.png`를 화면 검토 증거로 생성한다. Git에는 넣지 않으며 CI에서 artifact로 보관한다. 테스트 환경의 SwiftShader는 기능 확인용이며 실제 GPU 성능을 대표하지 않는다.
 

diff --git a/docs_canonical/ARCHITECTURE.md b/docs_canonical/ARCHITECTURE.md
@@ -9,7 +9,7 @@
 | 소리 출력 | Web Audio OscillatorNode | 사용자 클릭 후에만 정현파 미리듣기 |
 | 빌드 | Vite, npm lockfile | 정적 배포와 재현 가능한 의존성 |
 | 검증 | Vitest + Playwright | 물리 성질과 사용자 동작을 각각 검증 |
-| 배포 | Cloudflare Pages (권한 대기) | 계정명 없는 HTTPS 주소, 서버·DB 불필요 |
+| 배포 | Cloudflare Pages | 계정명 없는 HTTPS 주소, 서버·DB 불필요 |
 
 ## 데이터 흐름
 
@@ -22,6 +22,8 @@ flowchart LR
     DSP --> Observations[관측 목록]
     Observations --> Estimator[시간차 잔차 / 격자 추정]
     Estimator --> Heat[휴대폰 방향 적합도 오버레이]
+    Synthesis --> Level[PCM RMS 레벨]
+    Level --> Heat
     State --> Pressure[별도 정답 비교 오버레이]
     State --> Export[버전 포함 JSON 다운로드]
 ```
@@ -33,6 +35,7 @@ flowchart LR
 - 원음·카메라·실제 마이크에 접근하지 않는다. 미리듣기는 출력 전용이다. 측정 신호 모델과 청각 미리듣기 신호가 같다고 주장하지 않는다.
 - 3D renderer의 생명주기와 React 입력 갱신을 분리한다. ResizeObserver로 크기를 맞추고 해제 시 geometry/material/context를 정리한다.
 - 전화 화면은 72×126개의 시야 광선에서 여러 거리의 적합도를 평가한다. 물체 geometry는 배경 렌더링에만 사용한다. 숨겨진 모바일 탭의 0×0 resize는 무시해 NaN camera를 방지한다.
+- 열지도는 PCM RMS와 방향 적합도를 고정 척도로 표시한다. 볼륨 변화는 색·면적을 바꾸지만 표시 로직이 추정 지연이나 후보 탐색을 바꾸지 않는다. src/heatmap.ts는 source/scene 입력이 없다.
 - 추정은 20 cm 격자의 실내 후보를 평가한다. 잔차 비용으로 비교하여 확률 지수의 언더플로를 피한다. 최고 비용+3 이하 후보 개수와 최고점으로부터의 최대 거리를 보여준다.
 - 수평 이동만으로 남는 고도 모호성을 줄이도록 휴대폰 높이와 시야 pitch도 변경할 수 있다.
 - 모든 데이터는 메모리에만 존재한다. 새로고침하면 초기화되며 JSON 다운로드로 보관한다. JSON 가져오기는 아직 없다.
